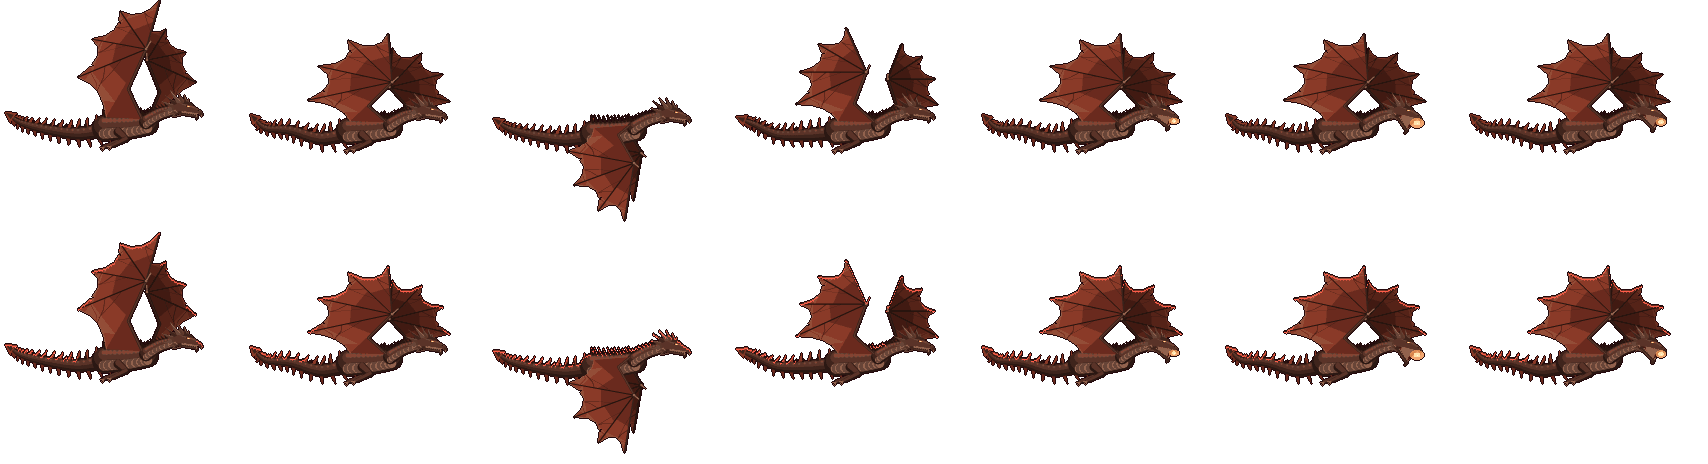
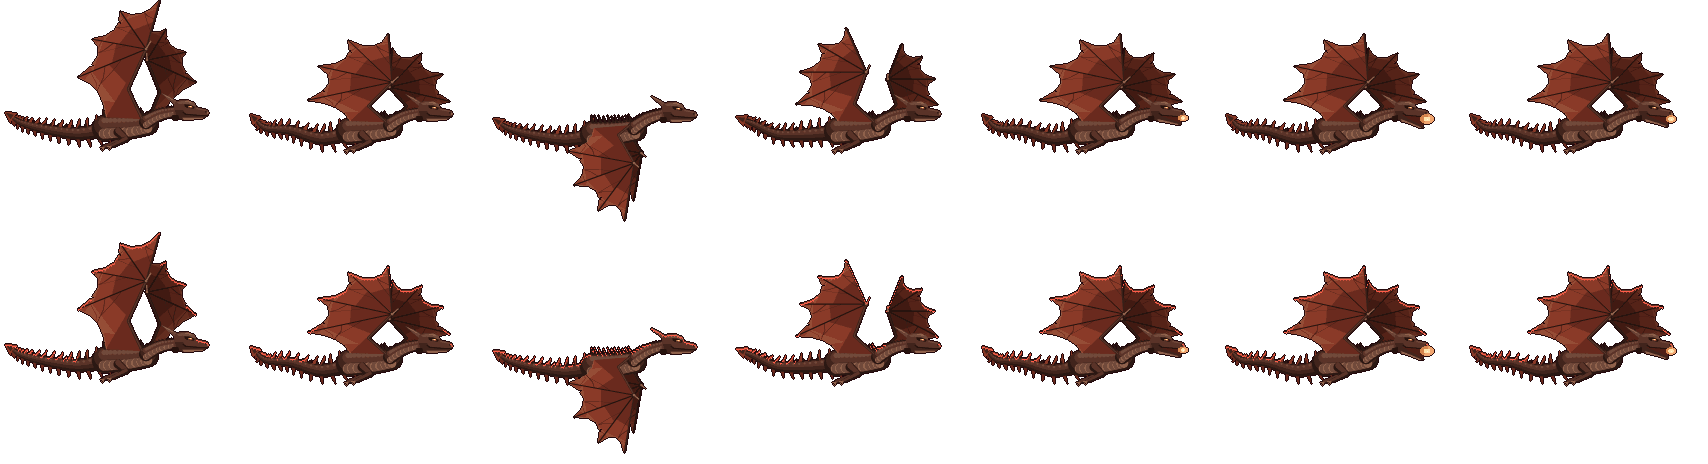
와이번 앉기 · 날기 얼굴을 다문 입 · 두꺼운 두개골 · 눕힌 뿔 하나 · 눈썹뼈 아래 호박색 눈으로 다시 그린다
Claude-Session: https://claude.ai/code/session_01Q8g6pWdFRXf9kPebAnvFCB

diff --git a/src/game/wyvernPxData.js b/src/game/wyvernPxData.js
@@ -7,8 +7,8 @@ export const WYVERN_PX_SRC = "/assets/game/rpg/effects/hidden-jobs/wyvern/px/";
 export const WYVERN_PX = {
   wy_claw: { w: 112, h: 96, cols: 6, n: 6, cx: 10, cy: 48, r: 88 },   // 용조격 — 굵은 발톱 참격 세 줄(11월 18일 다시 그림, 기준점 = 손, 그림 속 반지름 r)
   wy_hit: { w: 64, h: 64, cols: 8, n: 8, cx: 32, cy: 32 },   // 타격 — 흰 섬광 · 가시 여덟 · 불꽃 고리 · 불씨(11월 18일)
-  wy_wyvern: { w: 244, h: 232, cols: 7, n: 7, cx: 140, cy: 110, rows: 2, mouth: [57, 13] },   // 와이번 옆모습(오른쪽, 1배) — 11월 18일 사용자 자세 참고 그림대로 0 날개 위 · 1 내리침 · 2 날개 아래 · 3 올림 · 4~6 불 뿜기(design/effects/wyvern/pose.py). 줄 0 그대로 · 1 연마 75 붉은 선
-  wy_sit: { w: 252, h: 84, cols: 3, n: 3, cx: 146, cy: 80, rows: 2, mouth: [85, -23] },   // 지상 대기 와이번(1배, 기준점 = 몸 아래 땅) — 웅크려 목을 앞으로 길게 뻗고 접은 날개 손목으로 땅을 짚은 자세(11월 18일 사용자 기획) · 0 · 1 숨쉬기 · 2 앉아서 불 뿜기
+  wy_wyvern: { w: 244, h: 232, cols: 7, n: 7, cx: 140, cy: 110, rows: 2, mouth: [67, 9] },   // 와이번 옆모습(오른쪽, 1배) — 11월 18일 사용자 자세 참고 그림대로 0 날개 위 · 1 내리침 · 2 날개 아래 · 3 올림 · 4~6 불 뿜기(design/effects/wyvern/pose.py). 줄 0 그대로 · 1 연마 75 붉은 선
+  wy_sit: { w: 252, h: 84, cols: 3, n: 3, cx: 146, cy: 80, rows: 2, mouth: [101, -27] },   // 지상 대기 와이번(1배, 기준점 = 몸 아래 땅) — 웅크려 목을 앞으로 길게 뻗고 접은 날개 손목으로 땅을 짚은 자세(11월 18일 사용자 기획) · 0 · 1 숨쉬기 · 2 앉아서 불 뿜기
   wy_shade: { w: 122, h: 24, cols: 4, n: 4, cx: 61, cy: 12, loop: 1 },   // 땅에 비친 와이번 그림자 — 날갯짓 4칸
   wy_ball: { w: 20, h: 20, cols: 4, n: 4, cx: 12, cy: 10, loop: 1 },   // 와이번 화염탄(오른쪽으로 난다)
   wy_sigil: { w: 96, h: 56, cols: 8, n: 8, cx: 48, cy: 28 },   // 소환 문양 — 0~3 나타남 · 4~7 반복

diff --git a/src/game/wyvernData.js b/src/game/wyvernData.js
@@ -47,10 +47,10 @@ export const WY_CLAW = { name: "용조격", gap: 0.55, reach: 160, arc: (95 / 2)
    hz 나는 높이(화면 px) · spd 따라가는 빠르기 · v 화염탄 빠르기 · back 주인 뒤 거리 · side 옆 거리 — 정한 값 */
 export const WY_CONTRACT = { name: "비룡의 계약", cost: 30, cd: 15, dur: 30, dur50: 40, gap: 1.5, mul: 3.0, mul25: 4.0, seek: 500, sp25: 25, sp50: 50,
   back: [60, 120], far: 650, appear: 0.45, hz: 74, spd: 340, v: 620,
-  mouth: [57, 13],
+  mouth: [67, 9],
   // 앉기(11월 18일 사용자 "움직이지 않을 때는 앉아있는 모습") — 빠르기 speed(px/초) 아래로 wait 초 머물면 time 초에 걸쳐 내려앉고, 움직이면 같은 빠르기로 날아오른다.
   // sitMouth — 앉은 그림의 입 자리(땅 기준 화면 px, wy_sit 시트와 같다). 정한 값
-  sit: { speed: 20, wait: 0.6, time: 0.45, mouth: [85, -23] } };   // 화염탄이 나가는 입 자리(와이번 자리에서 화면 px) — wy_wyvern · wy_sit 시트의 mouth 와 같다(11월 18일 자세 그림)
+  sit: { speed: 20, wait: 0.6, time: 0.45, mouth: [101, -27] } };   // 화염탄이 나가는 입 자리(와이번 자리에서 화면 px) — wy_wyvern · wy_sit 시트의 mouth 와 같다(11월 18일 자세 그림)
 
 /* 용염 포효(직업 레벨 15) — 용혈 15 · 대기 9초 · 앞 350 · 부채꼴 90° · 0.15~0.90초 화염 박동 5번 ×3.0(합 ×15) · 맞히면 용혈 +10(시전당 한 번).
    1부 요약 — 포탈에서 용의 머리가 나와 앞으로 불을 뿜는다. 역린 해방 중 폭 +50%.

diff --git a/design/effects/wyvern/pose.py b/design/effects/wyvern/pose.py
@@ -37,7 +37,7 @@ class Pose:
         X, Y = s.P(x, y); R = r * SS; s.d.ellipse((X - R, Y - R, X + R, Y + R), fill=c)
     def line(s, pts, c, w):
         s.d.line([s.P(*p) for p in pts], fill=c, width=max(1, int(w * SS)), joint="curve")
-    def tube(s, path, r0, r1, pal, belly=None, spikes=0, seed=0):
+    def tube(s, path, r0, r1, pal, belly=None, spikes=0, seed=0, spk=1.0):
         """굵기가 r0 → r1 로 가는 몸통 — 아래 어둠 · 위 밝음 세 겹(둥근 몸), 배 쪽 밝은 띠, 등 가시"""
         pts = bez(path, 18); n = len(pts)
         rad = [r0 + (r1 - r0) * i / (n - 1) for i in range(n)]
@@ -53,7 +53,7 @@ class Pose:
                 x, y = pts[i]; (ax, ay), (bx, by) = pts[i - 1], pts[i + 1]
                 dx, dy = bx - ax, by - ay; L = math.hypot(dx, dy) or 1; nx, ny = dy / L, -dx / L   # 등 쪽(위)
                 if ny > 0: nx, ny = -nx, -ny
-                r = rad[i]; h = r * 0.5 + 1.0
+                r = rad[i]; h = (r * 0.5 + 1.0) * spk
                 s.poly([(x + nx * r * 0.8 - dx / L * 1.4, y + ny * r * 0.8 - dy / L * 1.4), (x + nx * (r + h) - dx / L * 2.2, y + ny * (r + h) - dy / L * 2.2), (x + nx * r * 0.8 + dx / L * 1.2, y + ny * r * 0.8 + dy / L * 1.2)], SPIKE)
         return pts, rad
     def fin_tail(s, path, r0):
@@ -186,6 +186,51 @@ class Pose:
         s.poly([R(12, -4.6), R(15, -4.9), R(14.5, -3.9), R(12.3, -3.9)], EYE)
         e = R(13.5, -4.3); s.eye = (e[0] + s.ox, e[1] + s.oy)   # 눈 자리(칸 좌표) — 32색으로 묶으면 작은 눈빛이 사라져 make.py 가 다시 찍는다
         return R(28, 3 + g * 6)
+    def head_rest(s, x, y, ang, gape=0.0, k=1.0, snout=1.0):
+        """지상 대기 머리(오른쪽) — 11월 18일 사용자 기획: 2번 사진을 좌우로 뒤집은 이마 → 코끝 윤곽과 턱 모양.
+        눈 뒤 두개골은 위아래로 두껍고 뒤통수에서 짧은 뿔 하나가 목 위로 비스듬히 뒤로. 굵은 눈썹뼈(앞 끝이 코 쪽으로 낮아짐) 아래 짙은 그림자 속 가늘고 짧은 호박색 눈.
+        눈 앞에서 콧등이 한 단 낮아지고 길고 납작한 주둥이, 코끝은 뭉툭한 쐐기. 입은 다물고 코끝 → 눈 아래까지 어두운 입선, 아래턱 뒤는 목 쪽으로 안으로 파인다.
+        gape > 0(불 뿜기 칸)이면 아래턱만 조금 내린다."""
+        ca, sa = math.cos(ang), math.sin(ang)
+        def R(u, v):
+            if u > 18: u = 18 + (u - 18) * snout   # snout < 1 — 콧등 앞 주둥이를 짧게(날 때)
+            u, v = u * k, v * k; return (x + u * ca - v * sa, y + u * sa + v * ca)
+        op = gape * 0.35
+        def J(u, v):   # 아래턱 — 경첩(4,3)을 축으로
+            du, dv = u - 4, v - 3; c, s_ = math.cos(op), math.sin(op)
+            return R(4 + du * c - dv * s_, 3 + du * s_ + dv * c)
+        DK, MID, LT, HI = BODY[0], BODY[2], BODY[3], BODY[4]
+        SHADOW = C("#1e0f0a")
+        # 뒤통수 뿔 하나 — 목 위로 비스듬히 뒤로(짧게)
+        s.poly([R(-1, -9), R(-9, -13), R(-17, -15.5), R(-10, -10.5), R(-2, -5)], HORN[0])
+        s.poly([R(-2, -8.6), R(-10, -12.6), R(-16, -15), R(-9, -11.6)], HORN[1])
+        # 아래턱 — 다문 입. 뒤끝은 목 쪽으로 안으로 파인다
+        s.poly([J(4, 2), J(20, 2.2), J(33, 1.8), J(34.5, 3.5), J(30, 5.4), J(18, 7), J(8, 8.6), J(3, 8), J(1.5, 5)], BODY[1])
+        s.poly([J(6, 6.8), J(18, 5.6), J(31, 4.2), J(30, 5.4), J(18, 7), J(8, 8.6)], BELLY[1])   # 아래턱 아랫면 밝게 — 턱 윤곽이 보이게
+        if gape > 0.05: s.poly([R(6, 2.2), R(34, 1.8), J(33, 1.8), J(6, 2.4)], C("#5a1610"))
+        # 두개골(눈 뒤 위아래로 두껍게) · 이마 · 한 단 낮아진 콧등 · 납작한 주둥이 · 뭉툭한 쐐기 코끝
+        outline_pts = [R(-3, -8), R(3, -11), R(10, -11), R(15, -9), R(17, -7.5),     # 정수리 → 이마
+                       R(18.5, -5.2), R(22, -5), R(30, -4.4), R(35, -3.6),            # 한 단 낮아진 콧등 → 납작한 주둥이
+                       R(37, -2.2), R(37.5, 0.5), R(36, 2),                          # 뭉툭한 쐐기 코끝
+                       R(22, 2.2), R(10, 2.4), R(4, 3), R(0, 6), R(-3, 4)]           # 윗턱 아랫선 → 두꺼운 두개골 뒤 아래
+        s.poly(outline_pts, MID)
+        s.poly([R(-1, -8), R(4, -10), R(10, -10), R(14, -8.5), R(8, -8), R(2, -6.5)], LT)     # 정수리 빛
+        s.poly([R(19, -4.6), R(30, -4), R(35, -3.2), R(30, -2.8), R(20, -3.4)], LT)            # 콧등 빛
+        s.poly([R(35.5, -2.6), R(37, -1.8), R(37.2, 0.4), R(36, 0.2)], HI)                      # 코끝 빛
+        s.poly([R(-2, 0), R(6, -1), R(8, 2.6), R(0, 5)], BODY[1])                               # 볼 · 턱 모서리 음영
+        # 눈썹뼈 — 굵고 앞 끝이 코 쪽으로 낮아진다
+        s.poly([R(4, -9.2), R(10, -11.2), R(16, -9.6), R(19, -6.6), R(17, -5.6), R(12, -7.4), R(6, -7.2)], BODY[3])
+        s.poly([R(6, -9.6), R(11, -11), R(15.5, -9.6), R(11, -9.4)], HI)
+        # 눈썹뼈 아래 짙은 그림자 · 그 안의 가늘고 짧은 호박색 눈
+        s.poly([R(7, -7), R(12, -7.2), R(17.5, -5.4), R(16, -3.6), R(10, -3.6), R(7.5, -4.6)], SHADOW)
+        s.poly([R(10.5, -5.4), R(15, -5.0), R(14.6, -4.3), R(10.8, -4.6)], EYE)
+        e = R(12.8, -4.9); s.eye = (e[0] + s.ox, e[1] + s.oy)
+        s.dot(*R(33.5, -1.6), 0.55, SHADOW)                                                    # 콧구멍
+        # 입선 — 코끝에서 눈 아래까지 어둡게
+        s.line([R(36.2, 1.9), R(26, 2.3), R(16, 2.6), R(9, 2.8), R(6, 1.0)], SHADOW, 1.3)
+        # 아래턱 뒤 → 목: 안으로 파인 그림자
+        s.poly([J(1.5, 4.5), J(3, 8), R(0, 10), R(-4, 9), R(-4, 5)], SHADOW)
+        return R(36, 1.5 + gape * 3)
     def leg(s, hip, knee, ank, foot, dirx=1):
         s.limb([hip, knee], 4.5, 3.2, BODY); s.limb([knee, ank, foot], 2.6, 1.6, BODY)
         s.claws(foot[0], foot[1], dirx)
@@ -221,10 +266,11 @@ def fly_pose(f, gape=0.0):
     s.fin_tail(tail, 7)
     s.leg((-24, 6 + lift), (-18, 15 + lift), (-30, 20 + lift), (-36, 22 + lift), -1)   # 뒷다리 — 뒤로 접어 붙인다
     s.tube([(-36, 2 + lift), (-12, 1 + lift), (8, -2 + lift)], 12, 10, BODY, belly=BELLY, spikes=3)
-    neck = [(6, -4 + lift), (20, -12 + lift), (36, -16 + lift)]
-    s.tube(neck, 7, 4.5, BODY, belly=BELLY, spikes=3)
+    hl = round(lift * 0.34)   # 머리 쪽은 들썩임을 줄인다 — 날갯짓 때 눈 자리가 튀지 않게(1px 안쪽)
+    neck = [(6, -4 + lift), (20, -12 + (lift + hl) / 2), (36, -16 + hl)]
+    s.tube(neck, 7, 4.2, BODY, belly=BELLY, spikes=3, spk=0.45)   # 목 가시는 낮게 — 뒤통수 뿔과 구분(11월 18일 사용자)
     s.leg((-22, 7 + lift), (-14, 14 + lift), (-24, 19 + lift), (-29, 21 + lift), -1)
-    mouth = s.head(neck[-1][0] + 1, neck[-1][1] - 1, math.radians(8 + gape * 6), gape)
+    mouth = s.head_rest(neck[-1][0] + 1, neck[-1][1] - 0.5, math.radians(6), gape, k=1.0, snout=0.7)   # 대기와 같은 얼굴 · 짧은 주둥이(11월 18일 사용자)
     s.wing(W((0, 0)), W(wg["el"]), W(wg["wr"]), [W(t) for t in wg["tips"]], W(wg["root"]), MEM, BONE)
     return s.done(), (round(mouth[0]), round(mouth[1]))
 
@@ -266,8 +312,8 @@ def sit_pose(breath=0, gape=0.0):
     s.tube([(-42, -14 + b * 0.4), (-16, -18 + b), (10, -18 + b)], 12, 11.5, BODY, belly=BELLY, spikes=4)   # 몸통 — 가슴 · 배가 땅 가까이
     s.leg((-34, -11), (-20, -5), (-31, -1.5), (-24, 0), 1)                 # 뒷다리 — 몸 아래로 접는다
     neck = [(8, -21 + b), (26, -30 + b), (46, -35 + b), (64, -35 + b)]
-    s.tube(neck, 9, 5, BODY, belly=BELLY, spikes=4)                     # 목 — 오른쪽 앞으로 길게
-    mouth = s.head(neck[-1][0] + 1, neck[-1][1] + 0.5, math.radians(6 + gape * 6), gape, lay=0.35)
+    s.tube(neck, 9, 4.2, BODY, belly=BELLY, spikes=4)   # 목 끝은 머리보다 가늘게 — 머리가 시작되는 자리가 보이게                     # 목 — 오른쪽 앞으로 길게
+    mouth = s.head_rest(neck[-1][0] + 1, neck[-1][1] + 0.5, math.radians(4), gape)   # 다문 입 · 대기 얼굴(11월 18일 사용자 기획)
     folded_wing(s, (4, -25 + b), (-10, -48 + b), (24, -2),   # 손가락: 아래(땅을 따라) → 위(등 아래), 가운데가 처지게 휜다
                 [((-12, -7), (-60, -2)), ((-16, -19), (-62, -12)), ((-14, -30), (-55, -22)), ((-6, -40), (-42, -30 + b))])
     return s.done(), (round(mouth[0]), round(mouth[1]))
